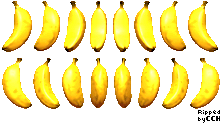
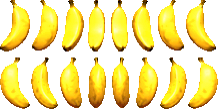
add lava, bananas, and enemies to game

diff --git a/lavaRun.js b/lavaRun.js
@@ -5,11 +5,11 @@ function preload() {
     game.load.tilemap('level1', 'assets/level1.json', null, Phaser.Tilemap.TILED_JSON);
     game.load.image('tiles-1', 'assets/tiles-1.png');
     game.load.spritesheet('dude', 'assets/dude.png', 32, 48);
-    game.load.spritesheet('droid', 'assets/droid.png', 32, 32);
-    game.load.image('starSmall', 'assets/star.png');
-    game.load.image('starBig', 'assets/star2.png');
     game.load.image('background', 'assets/background2.png');
     game.load.spritesheet('banana', 'assets/banana.png', 33, 56);
+    game.load.spritesheet('lava', 'assets/lava.png', 140, 119);
+    game.load.spritesheet('enemy', 'assets/droid.png', 32,32);
+//    game.load.image('banana', 'assets/star.png');
 
 }
 
@@ -22,8 +22,12 @@ var jumpTimer = 0;
 var cursors;
 var jumpButton;
 var bg;
-var banana;
+var bananas;
+var lava;
+var enemies; 
 
+var score = 0;
+var scoreText; 
 
 function create() {
 
@@ -43,7 +47,7 @@ function create() {
     layer = map.createLayer('Tile Layer 1');
 
     //  Un-comment this on to see the collision tiles
-    // layer.debug = true;
+//     layer.debug = true;
 
     layer.resizeWorld();
 
@@ -60,24 +64,68 @@ function create() {
     player.animations.add('turn', [4], 20, true);
     player.animations.add('right', [5, 6, 7, 8], 10, true);
     
-    banana = game.add.sprite(32, 62, 'banana');
-    banana.anchor.set(0.5, 0.5);
-    game.physics.enable(banana, Phaser.Physics.ARCADE);
-    banana.body.allowGravity = false;
-    banana.animations.add('rotate', [0,1,2,3,4,5], 10, true);
-    banana.animations.play('rotate');
+    bananas = game.add.group();
+    bananas.enableBody = true;
+    for(var i = 1; i < 30; i++){
+        var banana = bananas.create( i * 95, i * 70, 'banana');
+        banana.anchor.set(0.5, 0.5);
+        banana.scale.setTo(0.5, 0.5);
+        game.physics.enable(banana, Phaser.Physics.ARCADE);
+        banana.body.allowGravity = true;
+        banana.body.gravity.y = 6;
+        banana.body.bounce.y = 0.7 + Math.random() * 0.2;
+//        banana.animations.add('rotate', [0,1,2,3,4,5], 3, true);
+//        banana.animations.play('rotate');
+        banana.body.collideWorldBounds = true;
+    }
+    
+    enemies = game.add.group();
+    enemies.enableBody = true;
+    for(var i = 1; i < 10; i++){
+        var enemy = enemies.create(i * 80, i * 70, 'enemy');
+        enemy.anchor.set(0.5, 0.5);
+//        enemy.scale.setTo(0.8, 0.8);
+        game.physics.enable(enemy, Phaser.Physics.ARCADE);
+        enemy.body.allowGravity = true;
+        enemy.body.gravity.y = 2;
+        enemy.body.bounce.y = 0.7 + Math.random() * 0.2;
+        enemy.animations.add('crawl', [0,1,2,3], 4, true);
+        enemy.animations.play('crawl');
+        enemy.body.collideWorldBounds = true;
+        
+    }
+    
+
+//    lava.body.allowGravity = false;
+    for(var x = 0; x < game.world.width; x+= 128){
+        lava = game.add.sprite(x,0, 'lava');
+        lava.animations.add('fall', [0,1,2,3], 4, true);
+        lava.animations.play('fall');
+    }
+
 
     game.camera.follow(player);
+//    game.camera.setSize(50,50);
 
     cursors = game.input.keyboard.createCursorKeys();
     jumpButton = game.input.keyboard.addKey(Phaser.Keyboard.SPACEBAR);
+    
+    scoreText = game.add.text(16, 64, 'Score: 0', {fontsize: '32px', fill: '#FFF'});
 
 }
 
 function update() {
 
     game.physics.arcade.collide(player, layer);
-
+    game.physics.arcade.collide(bananas, layer);
+    game.physics.arcade.collide(enemies, layer);
+    
+    game.physics.arcade.overlap(player, bananas, collectBanana, null, this);
+    game.physics.arcade.overlap(player, enemies, attackPlayer, null, this);
+    
+    scoreText.x = game.camera.x;
+    scoreText.y = game.camera.y;
+    
     player.body.velocity.x = 0;
 
     if (cursors.left.isDown)
@@ -126,6 +174,19 @@ function update() {
     }
 
 }
+
+function collectBanana(player, banana){
+    banana.kill();
+    
+    score += 10;
+    scoreText.text = 'Score: ' + score;
+}
+
+function attackPlayer(player, enemy){
+    enemy.kill();
+    score -= 10;
+    scoreText.text = 'Score: ' + score; 
+ }
 
 function render () {
 
